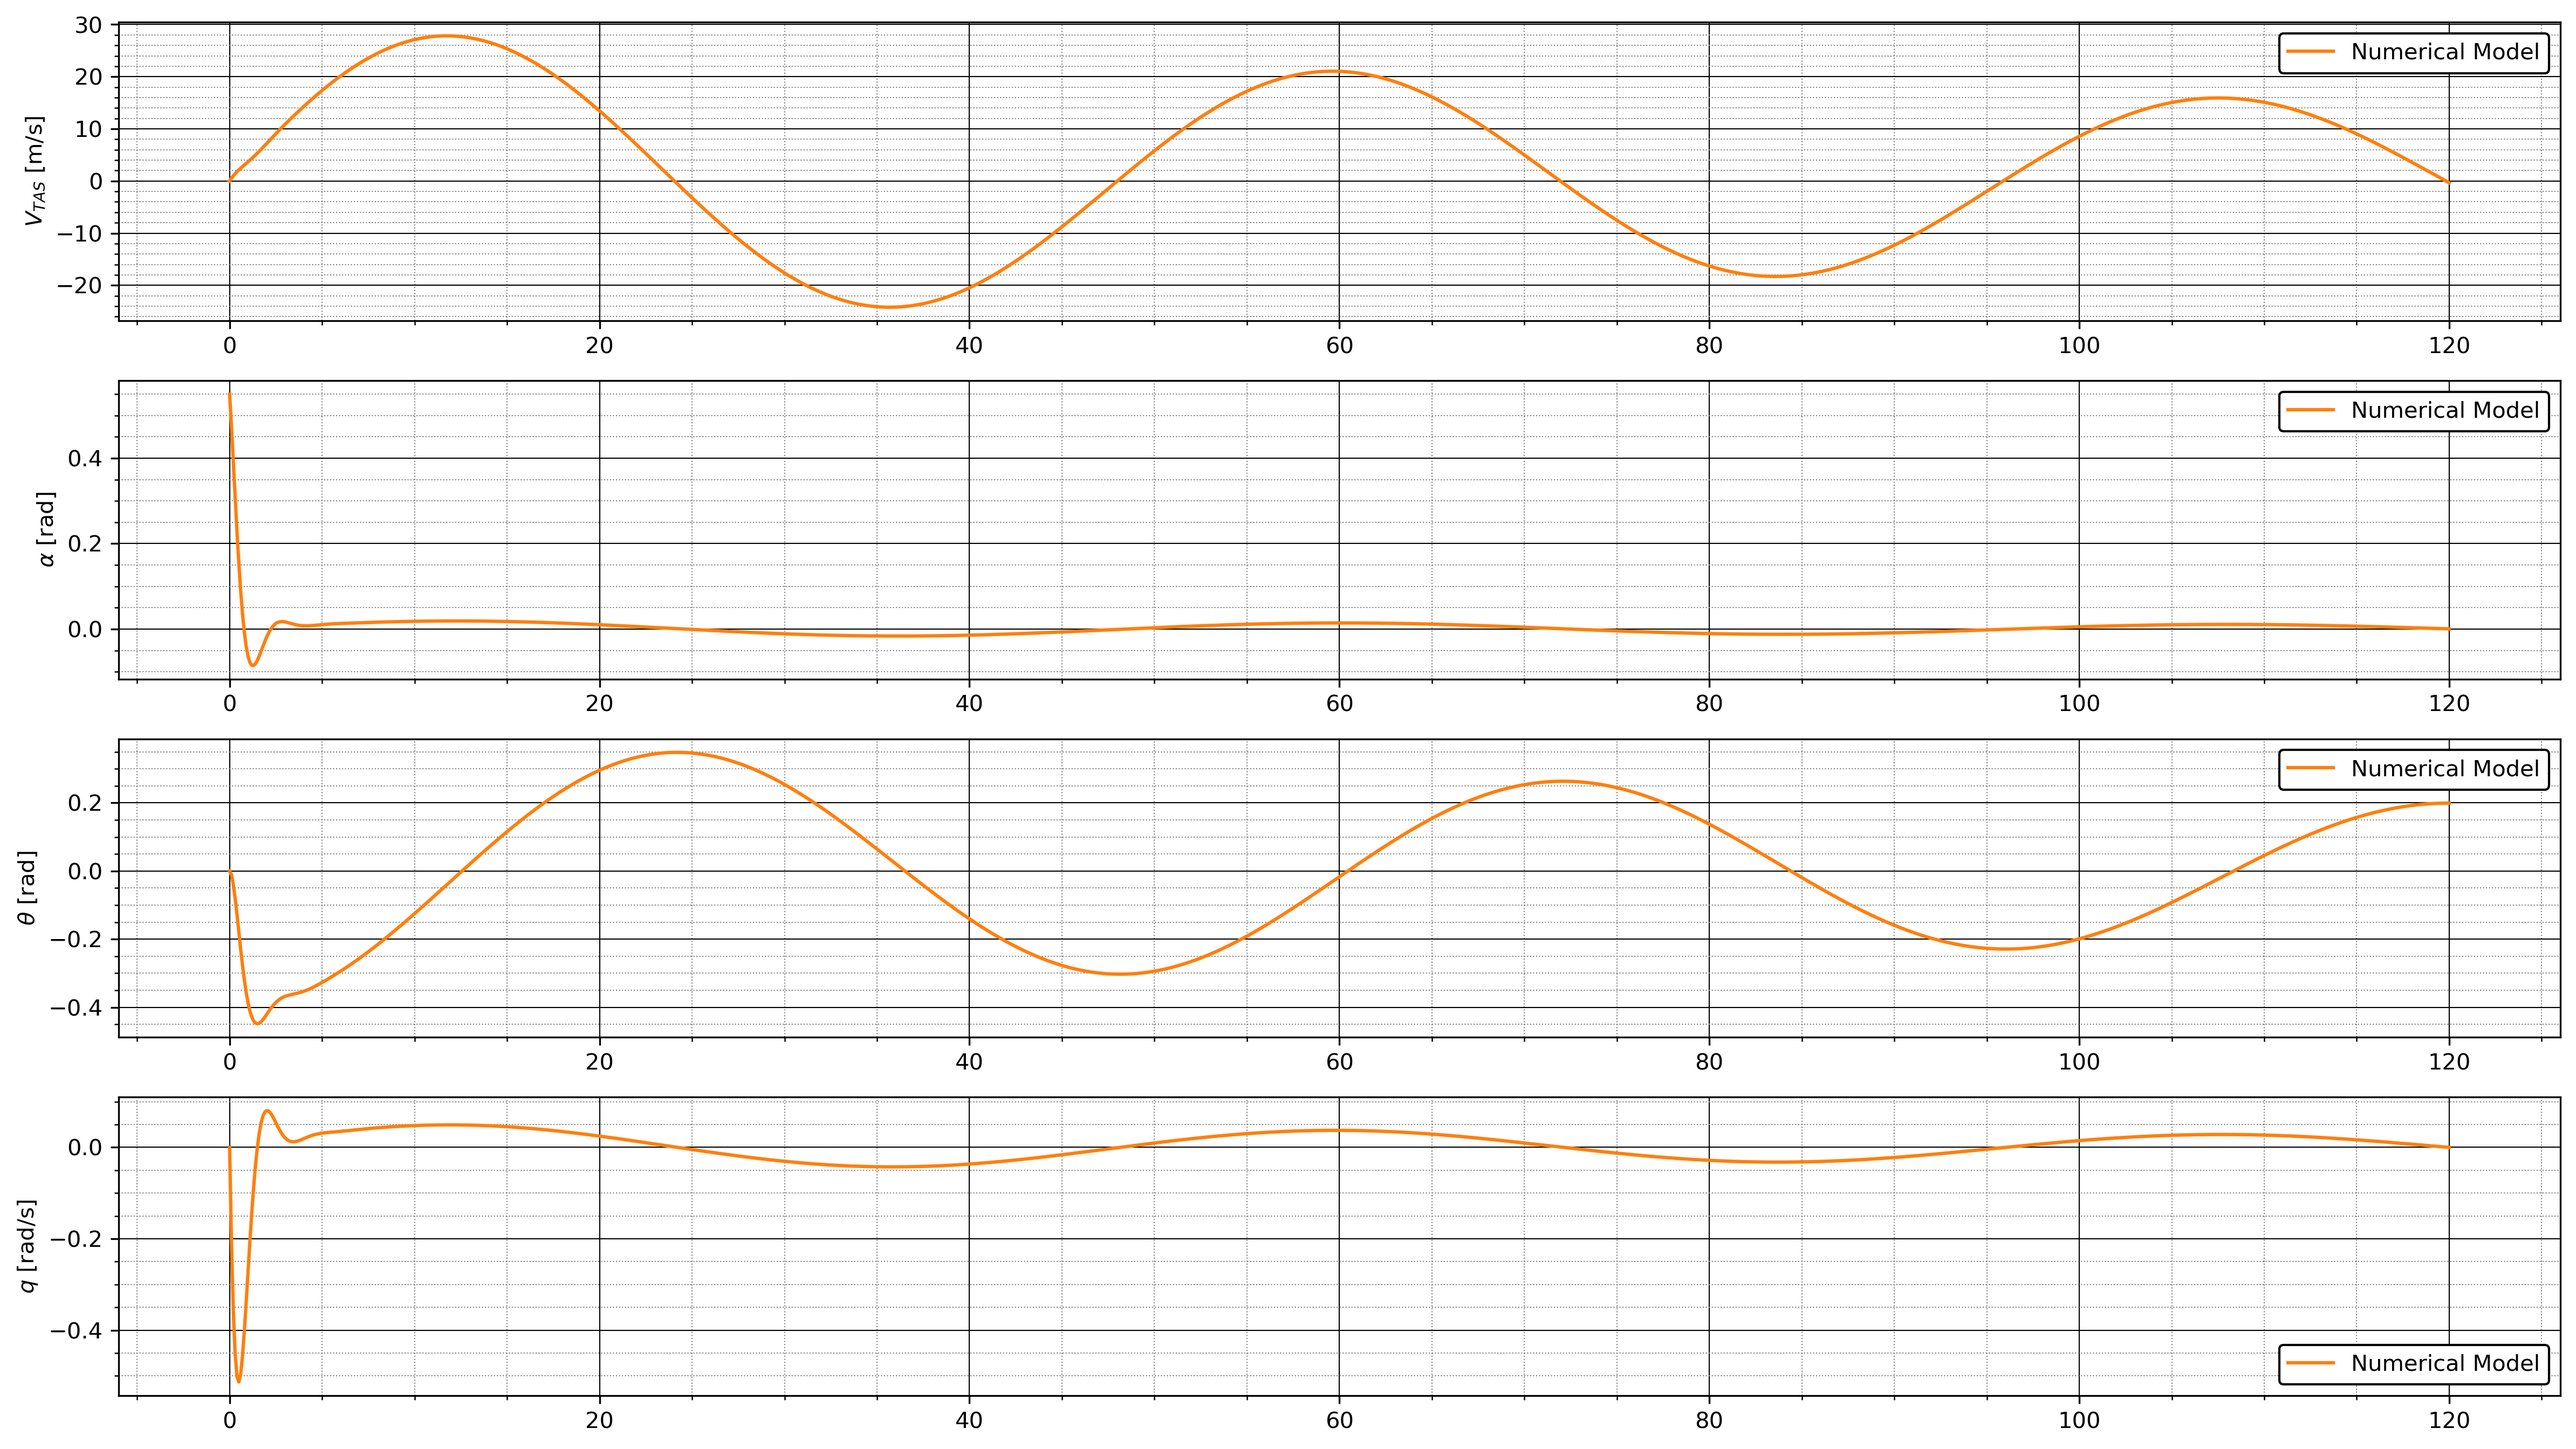
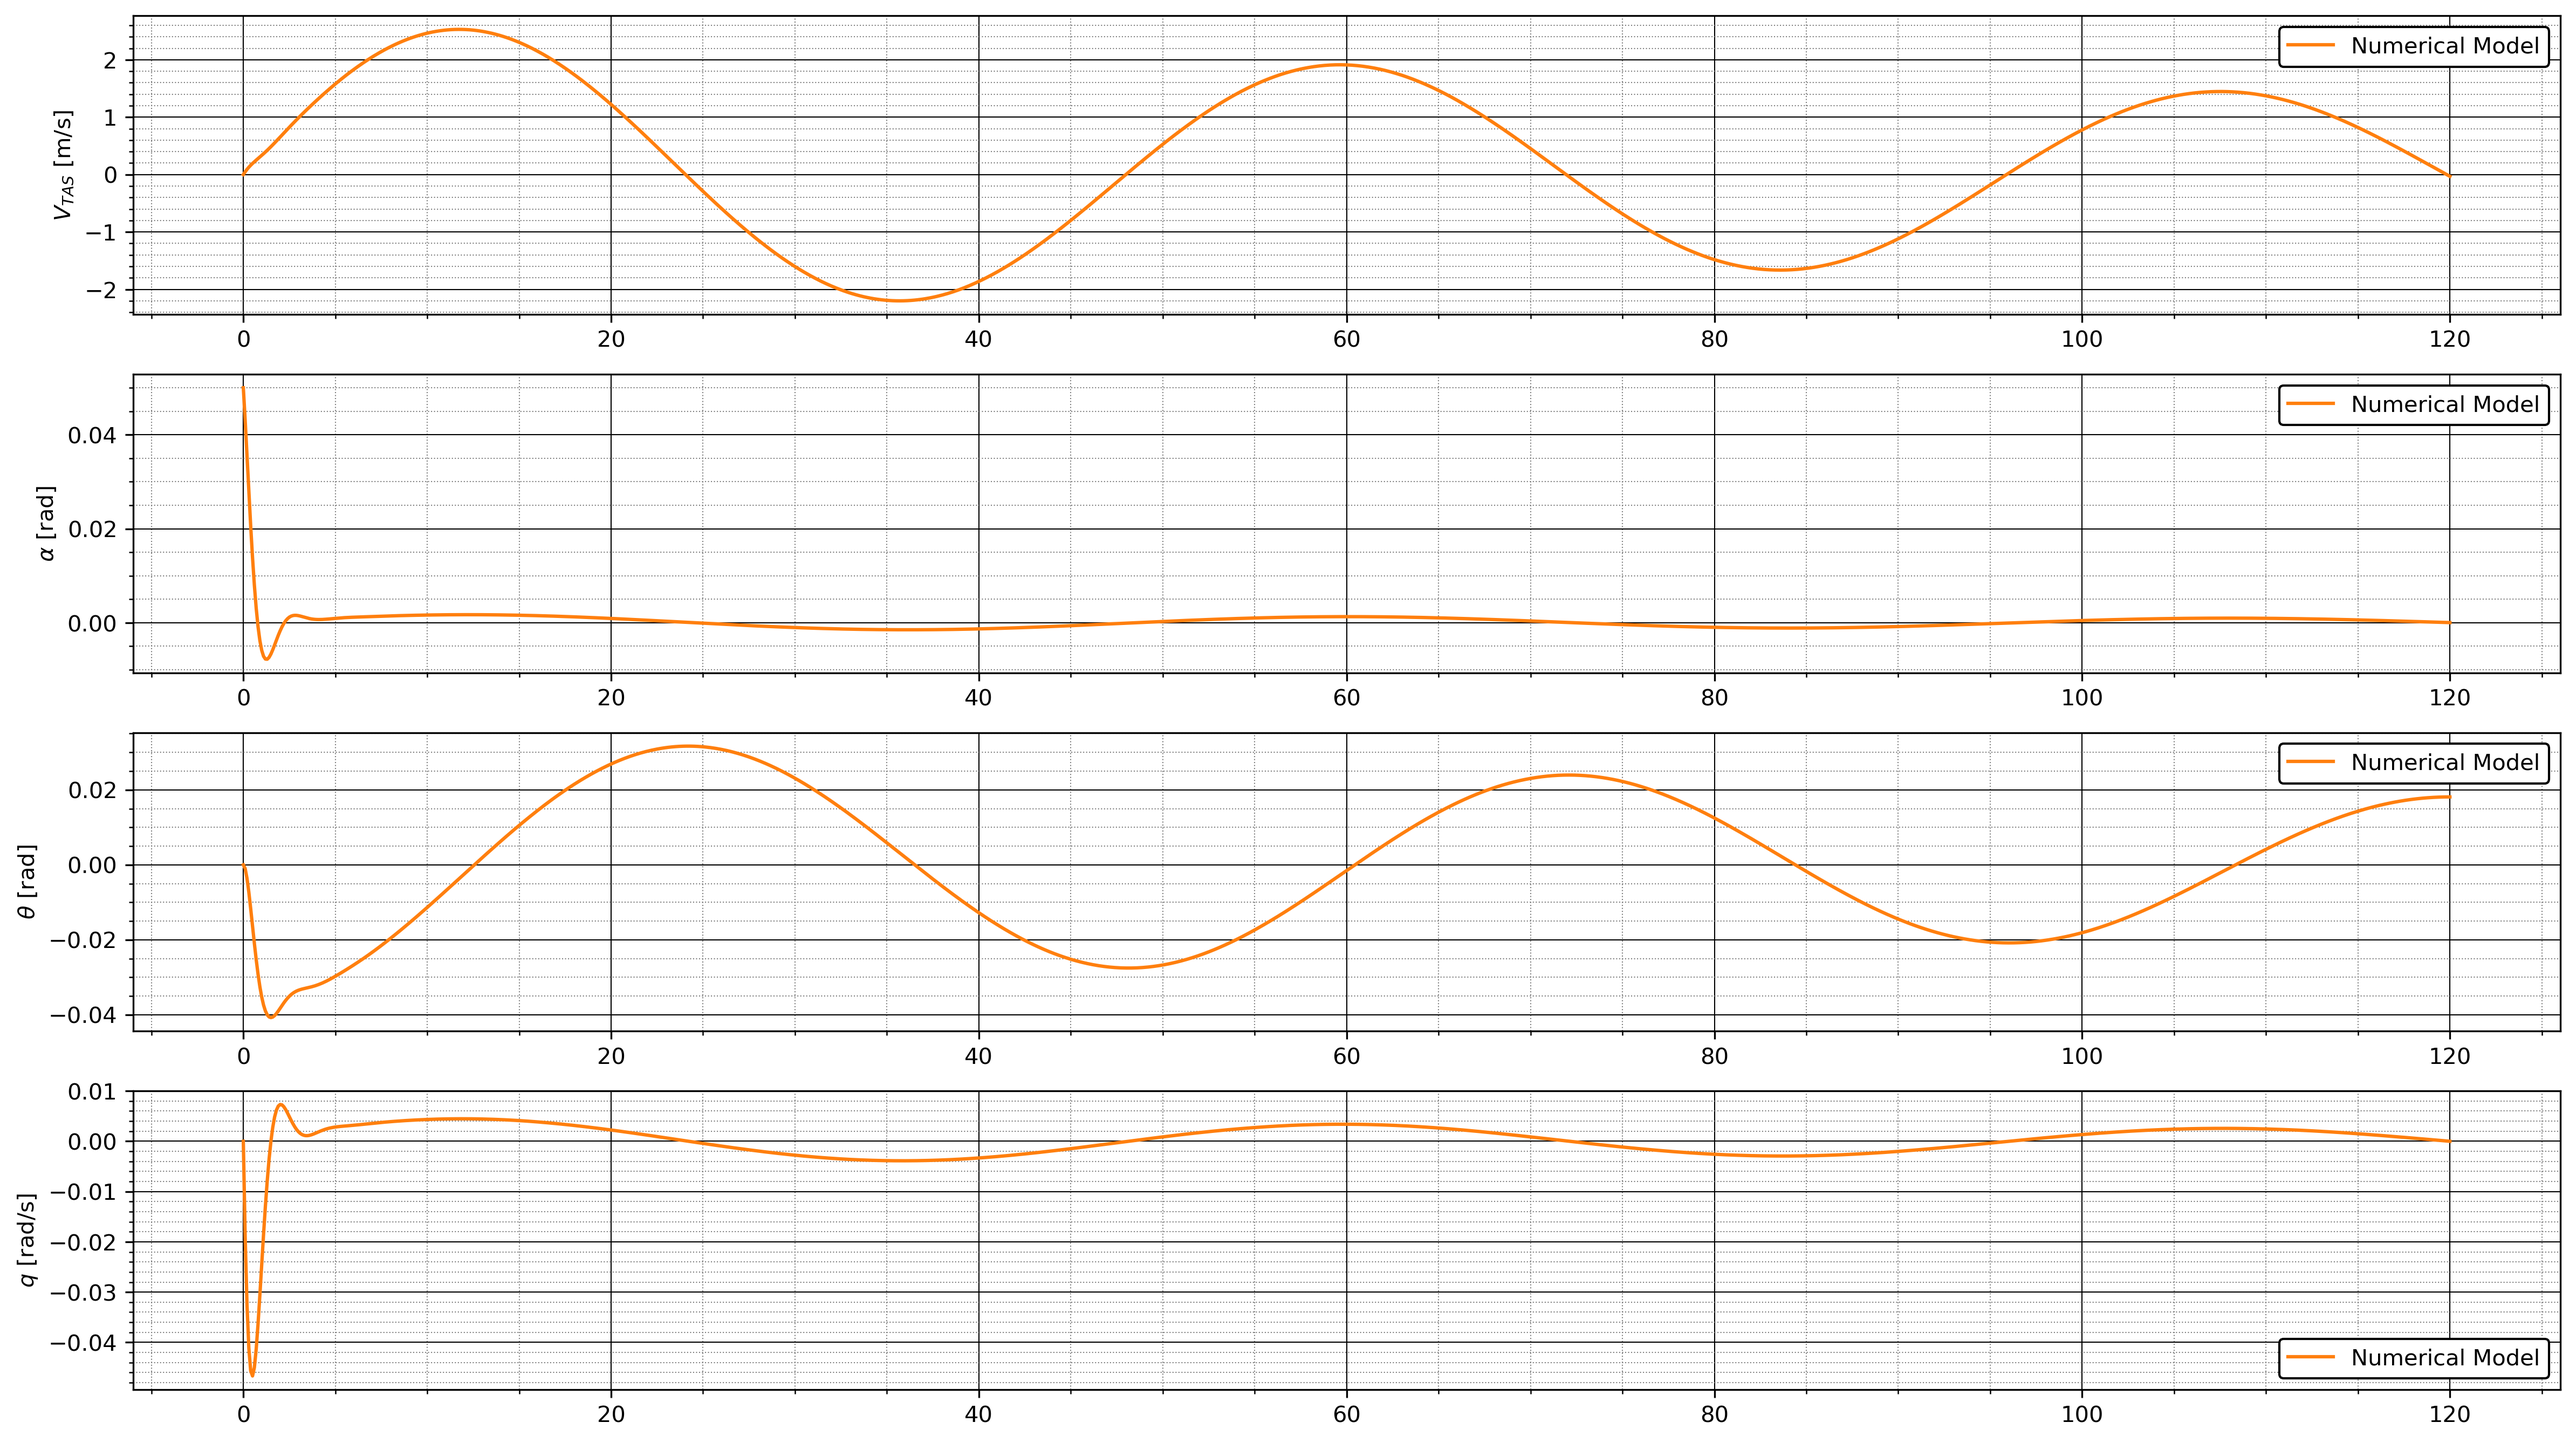
updating main

Changed region(s): [[0.0, 0.0, 0.9983, 0.9925]]

diff --git a/main.py b/main.py
@@ -221,7 +221,7 @@ def lbstokg(mass):
 # ==============================================================================================
 # Import data from Matlab files
 # ==============================================================================================
-# data = importdata('referencedata.mat')                                                     # initialise reference data from matlab file
+# data = importdata('referencedata.mat')                                                       # initialise reference data from matlab file
 data = importdata('flightdata.mat')                                                          # initialise flight data from matlab file
 
 # ==============================================================================================
@@ -276,7 +276,7 @@ df1    = pd.DataFrame(temp, columns=['time', 'mass'])                           
 # ==============================================================================================
 # Eigenmotion analysis
 # ==============================================================================================
-f = open('eigenvalues.txt', 'w+')                                                            # create .txt-file where EV's are written
+f      = open('eigenvalues.txt', 'w+')                                                       # create .txt-file where EV's are written
 
 for motion in ['phugoid', 'shortperiod', 'aperroll', 'dutchroll', 'dutchrollYD', 'spiral']:
     # ==============================================================================================
@@ -307,9 +307,9 @@ for motion in ['phugoid', 'shortperiod', 'aperroll', 'dutchroll', 'dutchrollYD',
 
     e      = 0.5949711666751891                                                              # [-] Oswald factor
     # e      = 0.8                                                                             # [-] Oswald factor reference data
-    CD0    = 0.01976539072252899                                                              # [-] Zero lift drag coefficient
+    CD0    = 0.01976539072252899                                                             # [-] Zero lift drag coefficient
     # CD0    = 0.04                                                                            # [-] Zero lift drag coefficient reference data
-    CLa    = 3.8926163611249893                                                               # [1/rad] Slope of CL-alpha curve
+    CLa    = 3.8926163611249893                                                              # [1/rad] Slope of CL-alpha curve
     # CLa    = 5.084                                                                           # [1/rad] Slope of CL-alpha curve reference data
 
     Cma    = -0.582128                                                                       # [-] longitudinal stabilty
@@ -515,23 +515,23 @@ for motion in ['phugoid', 'shortperiod', 'aperroll', 'dutchroll', 'dutchrollYD',
         eigenmotion.append(df2)                                                              # append DataFrame to individual list
         eigenmotion = pd.concat(eigenmotion, axis=1)                                         # concatenate list into panda dataframe along axis 1
 
-        # outputnames = ['VTAS', 'alpha', 'theta', 'q']                                        # names for picture labelling
-        # X0 = np.array([[0.75, 0, 0, 0],
-        #                [0, 0.55, 0, 0],
-        #                [0, 0, 0.25, 0],
-        #                [0, 0, 0, 0.15]])                                                       # initial conditions for symmetric flight
-        # eigenmotion1, eigenmotion2, eigenmotion3, eigenmotion4 = [], [], [], []                # initialise empty lists
-        # k = 0
-        # for em in (eigenmotion1, eigenmotion2, eigenmotion3, eigenmotion4):
-        #     t2, y2 = ctl.initial_response(syss, dt, X0[:,k])                                 # calculate initial response
-        #     df3    = pd.DataFrame(np.transpose(y2), columns=columns)                         # convert forced response to DataFrame
-        #     em.append(df3)                                                                   # append DataFrame to individual list
-        #     k += 1
+        outputnames = ['VTAS', 'alpha', 'theta', 'q']                                        # names for picture labelling
+        X0 = np.array([[5.0, 0, 0, 0],
+                       [0, 0.05, 0, 0],
+                       [0, 0, 0.5, 0],
+                       [0, 0, 0, 0.5]])                                                      # initial conditions for symmetric flight
+        eigenmotion1, eigenmotion2, eigenmotion3, eigenmotion4 = [], [], [], []              # initialise empty lists
+        k = 0
+        for em in (eigenmotion1, eigenmotion2, eigenmotion3, eigenmotion4):
+            t2, y2 = ctl.initial_response(syss, dt, X0[:,k])                                 # calculate initial response
+            df3    = pd.DataFrame(np.transpose(y2), columns=columns)                         # convert forced response to DataFrame
+            em.append(df3)                                                                   # append DataFrame to individual list
+            k += 1
 
-        # eigenmotion1 = pd.concat(eigenmotion1, axis=1)                                       # concatenate list into panda dataframe along axis 1
-        # eigenmotion2 = pd.concat(eigenmotion2, axis=1)                                       # concatenate list into panda dataframe along axis 1
-        # eigenmotion3 = pd.concat(eigenmotion3, axis=1)                                       # concatenate list into panda dataframe along axis 1
-        # eigenmotion4 = pd.concat(eigenmotion4, axis=1)                                       # concatenate list into panda dataframe along axis 1
+        eigenmotion1 = pd.concat(eigenmotion1, axis=1)                                       # concatenate list into panda dataframe along axis 1
+        eigenmotion2 = pd.concat(eigenmotion2, axis=1)                                       # concatenate list into panda dataframe along axis 1
+        eigenmotion3 = pd.concat(eigenmotion3, axis=1)                                       # concatenate list into panda dataframe along axis 1
+        eigenmotion4 = pd.concat(eigenmotion4, axis=1)                                       # concatenate list into panda dataframe along axis 1
 
         if motion == 'phugoid':
             fig1, ax1 = plt.subplots(4,1, squeeze=False, figsize=(16,9))                     # initialise figure with 4 rows and 1 column
@@ -655,23 +655,23 @@ for motion in ['phugoid', 'shortperiod', 'aperroll', 'dutchroll', 'dutchrollYD',
         eigenmotion = pd.concat(eigenmotion, axis=1)                                         # concatenate list into panda dataframe along axis 1
         u = np.negative(u)                                                                   # [rad] flip input sign; input deflections seems to have wrong sign
 
-        outputnames = ['beta', 'phi', 'p', 'r']                                              # names for picture labelling
-        X0 = np.array([[0.75, 0, 0, 0],
-                       [0, 0.55, 0, 0],
-                       [0, 0, 0.25, 0],
-                       [0, 0, 0, 0.15]])                                                     # initial conditions for symmetric flight
-        eigenmotion1, eigenmotion2, eigenmotion3, eigenmotion4 = [], [], [], []              # initialise empty lists
-        k = 0
-        for em in (eigenmotion1, eigenmotion2, eigenmotion3, eigenmotion4):
-            t2, y2 = ctl.initial_response(syss, dt, X0[:,k])                                 # calculate initial response
-            df3    = pd.DataFrame(np.transpose(y2), columns=columns)                         # convert forced response to DataFrame
-            em.append(df3)                                                                   # append DataFrame to individual list
-            k += 1
+        # outputnames = ['beta', 'phi', 'p', 'r']                                              # names for picture labelling
+        # X0 = np.array([[0.1, 0, 0, 0],
+        #                [0, 0.1, 0, 0],
+        #                [0, 0, 0.5, 0],
+        #                [0, 0, 0, 0.5]])                                                     # initial conditions for symmetric flight
+        # eigenmotion1, eigenmotion2, eigenmotion3, eigenmotion4 = [], [], [], []              # initialise empty lists
+        # k = 0
+        # for em in (eigenmotion1, eigenmotion2, eigenmotion3, eigenmotion4):
+        #     t2, y2 = ctl.initial_response(syss, dt, X0[:,k])                                 # calculate initial response
+        #     df3    = pd.DataFrame(np.transpose(y2), columns=columns)                         # convert forced response to DataFrame
+        #     em.append(df3)                                                                   # append DataFrame to individual list
+        #     k += 1
 
-        eigenmotion1 = pd.concat(eigenmotion1, axis=1)                                       # concatenate list into panda dataframe along axis 1
-        eigenmotion2 = pd.concat(eigenmotion2, axis=1)                                       # concatenate list into panda dataframe along axis 1
-        eigenmotion3 = pd.concat(eigenmotion3, axis=1)                                       # concatenate list into panda dataframe along axis 1
-        eigenmotion4 = pd.concat(eigenmotion4, axis=1)                                       # concatenate list into panda dataframe along axis 1
+        # eigenmotion1 = pd.concat(eigenmotion1, axis=1)                                       # concatenate list into panda dataframe along axis 1
+        # eigenmotion2 = pd.concat(eigenmotion2, axis=1)                                       # concatenate list into panda dataframe along axis 1
+        # eigenmotion3 = pd.concat(eigenmotion3, axis=1)                                       # concatenate list into panda dataframe along axis 1
+        # eigenmotion4 = pd.concat(eigenmotion4, axis=1)                                       # concatenate list into panda dataframe along axis 1
 
         if motion == 'aperroll':
             fig1, ax1 = plt.subplots(4,1, squeeze=False, figsize=(16,9))                     # initialise figure with 4 rows and 1 column
